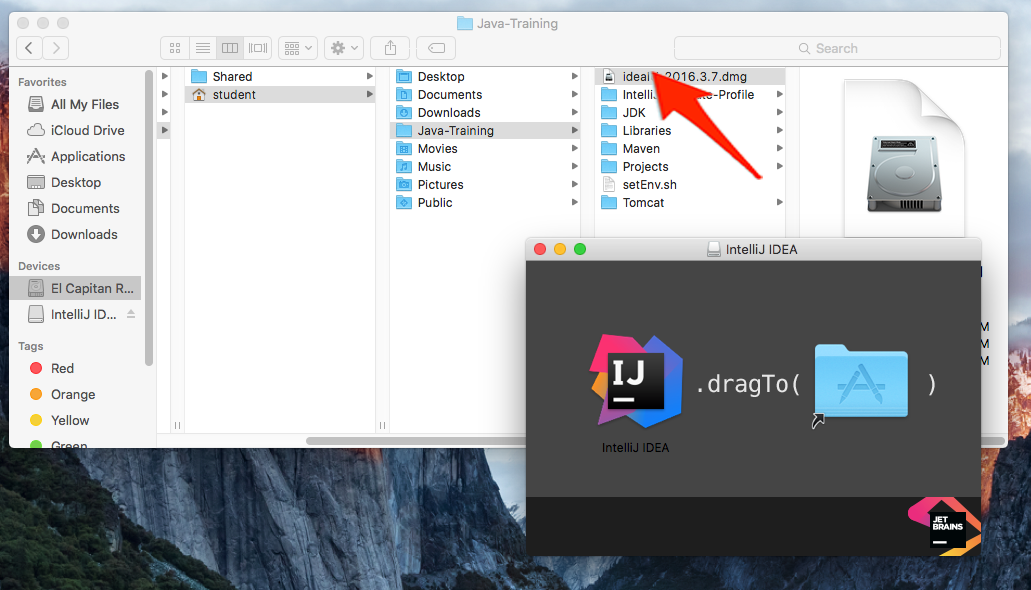
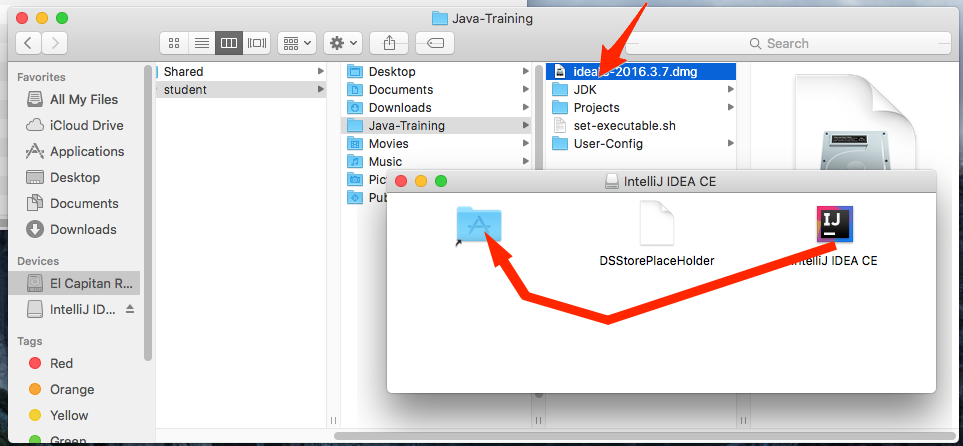
General: Fix the macOS installation guide

diff --git a/Instalacni pokyny/README.md b/Instalacni pokyny/README.md
@@ -127,17 +127,27 @@ Následujte tento postup:
     [Java-Training.zip](http://javabrno.czechitas.cz/install/2018-jaro/install-community/Java-Training.zip).
     Soubor se začne stahovat. Průběh lze sledovat například v horním tlačítku Stahování (Downloads).
 
-	![](mac-00_web.png)
-
 1. Až bude soubor stažený, automaticky se rozbalí. Podívejte se do složky **Stažené soubory (Downloads)**. Pokud byste
     ve složce Stažené soubory (Downloads) viděli pouze archiv Java-Training.zip, dvojím kliknutím jej rozbalte.
 
-	![](mac-01_downloads.png)
+	![](mac-01_unzip.png)
 
 1. Přesuňte složku **Java-Training** do své domovské složky. Domovská složka je **/Users/VAŠE_UŽIVATELSKÉ_JMÉNO**. Tedy
-    například **/Users/student**.
+    například **/Users/student**. Do domovské složky se lze dostat ve Finderu volbou z menu **Jdi -> Domov** (**Go ->
+    Home**).
 
-	![](mac-02_unzip.png)
+	![](mac-02_go_home.png)
+
+    Přesun ze Stahování (Downloads) do domovské složky:
+
+	![](mac-03_move.png)
+
+    Celý obsah tak bude ve složce **/Users/VAŠE_UŽIVATELSKÉ_JMÉNO/Java-Training** a bude vypadat takto:
+
+	![](mac-04_result.png)
+
+    Je nezbytně nutné mít vše právě v **/Users/VAŠE_UŽIVATELSKÉ_JMÉNO/Java-Training**. V jiné složce (například na ploše
+    nebo ve vaší složce Dokumenty) aplikace nebudou fungovat.
 
 1. Ve složce **Java-Training** uvnitř svého domovského adresáře poklepáním spuťte instalační soubor
     **ideaIC-2016.3.7.dmg** a přetažením nainstalujte IntelliJ IDEA do složky Aplikace (Applications).
@@ -163,28 +173,43 @@ Následujte tento postup:
 1. Ve složce Aplikace (Applications) **pravým tlačítkem** klikněte na IntelliJ IDEA a vyberte Zobrazit obsah (Show
     Package Contents).
 
-	![](mac-09_idea_folder_open.png)
+    Poznámka: IntelliJ IDEA bylo nutné nejprve spustit (a zase ukončit) a až potom zobrazit obsah, protože macOS při
+    prvním spuštění zkontroluje digitální podpis aplikace. Při dalších spuštěních již ne, a proto nyní můžeme přistoupit
+    ke změně nastavení (viz další kroky).
 
-1. Nyní se proklikejte do složky **Contents/bin**, poklepáním otevřete konfigurační soubor **idea.properties** a na
-    konec přidejte následující dva řádky:
+	![](mac-05_idea_show_package_contents.png)
 
-        idea.config.path=~/Java-Training/IntelliJ-Community-Profile/config
-        idea.system.path=~/Java-Training/IntelliJ-Community-Profile/system
+1. Nyní se proklikejte do složky **Contents/bin**, poklepáním otevřete konfigurační soubor **idea.properties**. Otevřete
+    ho pomocí textového editoru (TextEdit nebo TextMate).
 
-    **Pozor!** v závislosti na nastavení vašeho systému se soubor může otevřít v jiném textovém editoru. V případě, že
-	se soubor nebude chtít otevřít v žádné aplikaci, vyberte TextEdit.
+	![](mac-06_idea_folder_open.png)
+
+    Pokud se vás bude operační systém ptát, kterou aplikaci použít pro otevření, zvolte Choose Application.
+
+	![](mac-07_idea_open_unknown.png)
+
+    Zvolte aplikaci TextEdit nebo TextMate.
+
+	![](mac-08_idea_open_textmate.png)
+
+1. Na konec souboru idea.properties přidejte následující řádky:
+
+        idea.config.path=~/Java-Training/User-Config/IntelliJ-Community/config
+        idea.plugins.path=~/Java-Training/User-Config/IntelliJ-Community/config/plugins
+        idea.system.path=~/Java-Training/User-Config/IntelliJ-Community/system
+        idea.log.path=~/Java-Training/User-Config/IntelliJ-Community/system/log
 
 	![](mac-10_idea_community_config_change.png)
 
 1. Uložte změny v konfiguračním souboru.
 
-	![](mac-11_idea_community_config_save.png)
+	![](mac-11_idea_config_save.png)
 
 1.  Zkuste si ještě pustit ukázkovou aplikaci, ať ověříte, že máte správně nainstalovanáno.
 
     Ze složky Aplikace (Applications) poklepáním spusťte editor IntelliJ IDEA.
 
-	![](mac-12_idea_open.png)
+	![](mac-04_idea_open.png)
 
 1. Zvolte Otevřít (Open).
 
